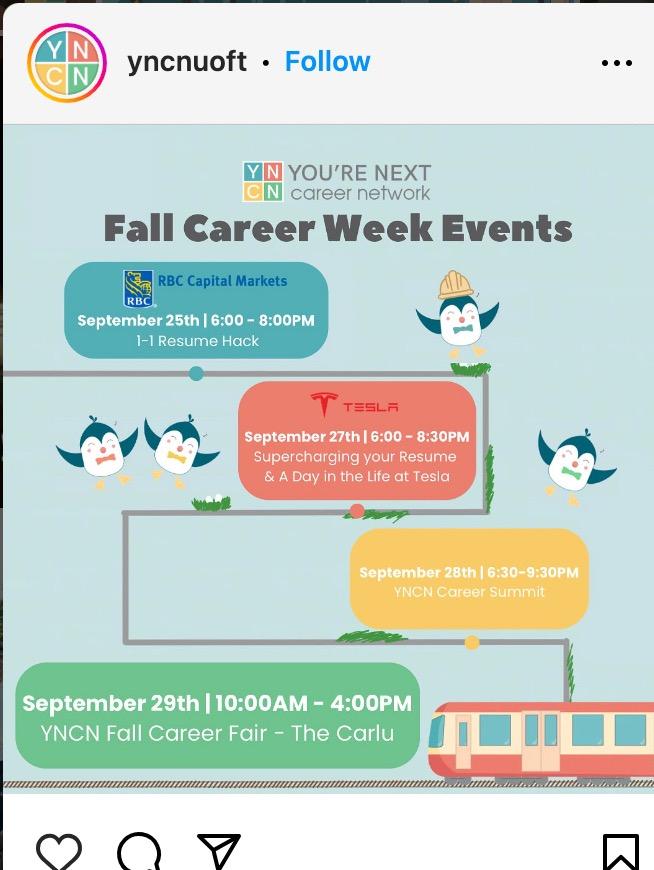
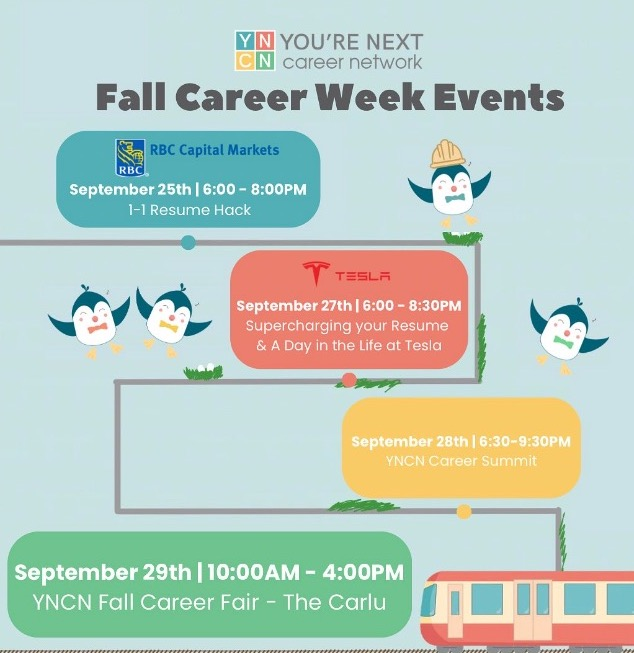
fix the image display issue, fix post card styling

diff --git a/src/components/PostCard.tsx b/src/components/PostCard.tsx
@@ -1,6 +1,7 @@
 import React from "react";
 import "bootstrap/dist/css/bootstrap.min.css";
 import "../styles/PostCard.css";
+const postImage = require("../assets/post1.jpeg");
 
 interface PostCardProps {
   title: string;
@@ -14,7 +15,7 @@ const PostCard: React.FC<PostCardProps> = (PostCardProps: any) => {
   return (
     <div className="col">
       <div className="card">
-        <img src="../assets/post1.jpeg" className="card-img-top" alt="..." />
+        <img src={postImage} className="card-img-top rounded-top-34" alt="..." />
         <div className="card-body">
           <div className="d-flex justify-content-center">
             <span className="h4 card-title text-center">
@@ -27,7 +28,7 @@ const PostCard: React.FC<PostCardProps> = (PostCardProps: any) => {
           <p className="card-text text-left">{PostCardProps.description}</p>
           <span className="pill">
             {PostCardProps.tags.map((tag: string, index: number) => (
-              <span key={index}>{tag}</span>
+              <span className="pill-tag" key={index}>{tag}</span>
             ))}
           </span>
         </div>

diff --git a/src/styles/PostCard.css b/src/styles/PostCard.css
@@ -1,6 +1,4 @@
 .card {
-  height: 98%;
-  width: 98%;
   border-radius: 34px;
 }
 
@@ -25,19 +23,6 @@ h1 {
     -webkit-box-orient: vertical;
 }
 
-.create-listing {
-    display: inline-block;
-    font-size: 1.2rem;
-    font-weight: bold;
-    border-radius: 4px solid #a6a6a6;
-    background-color: #ffffffaf;
-    margin: 8px 0;
-}
-
-.create-listing:hover {
-    background-color: #dddddd64;
-}
-
 .pill {
   font-size: 12px;
   border: 3px solid #072F5F;
@@ -45,6 +30,7 @@ h1 {
   border-radius: 16px; 
   padding: 4px 8px;
   text-decoration: none;
+  padding-bottom: 5px;
 }
 
 .btn-custom-primary {
@@ -59,4 +45,14 @@ h1 {
   letter-spacing: 0;
   line-height: 20px;
   white-space: nowrap;
+}
+
+.rounded-top-34 {
+  border-top-left-radius: 34px;
+  border-top-right-radius: 34px;
+}
+
+.pill-tag {
+  margin-right: 5px;
+  margin-bottom: 5px;
 }

diff --git a/src/App.css b/src/App.css
@@ -1,5 +1,5 @@
 body {
-  background-color: #A0D1F2;
+  background-color: #A0D1F2 !important;
 }
 
 .custom-container {
